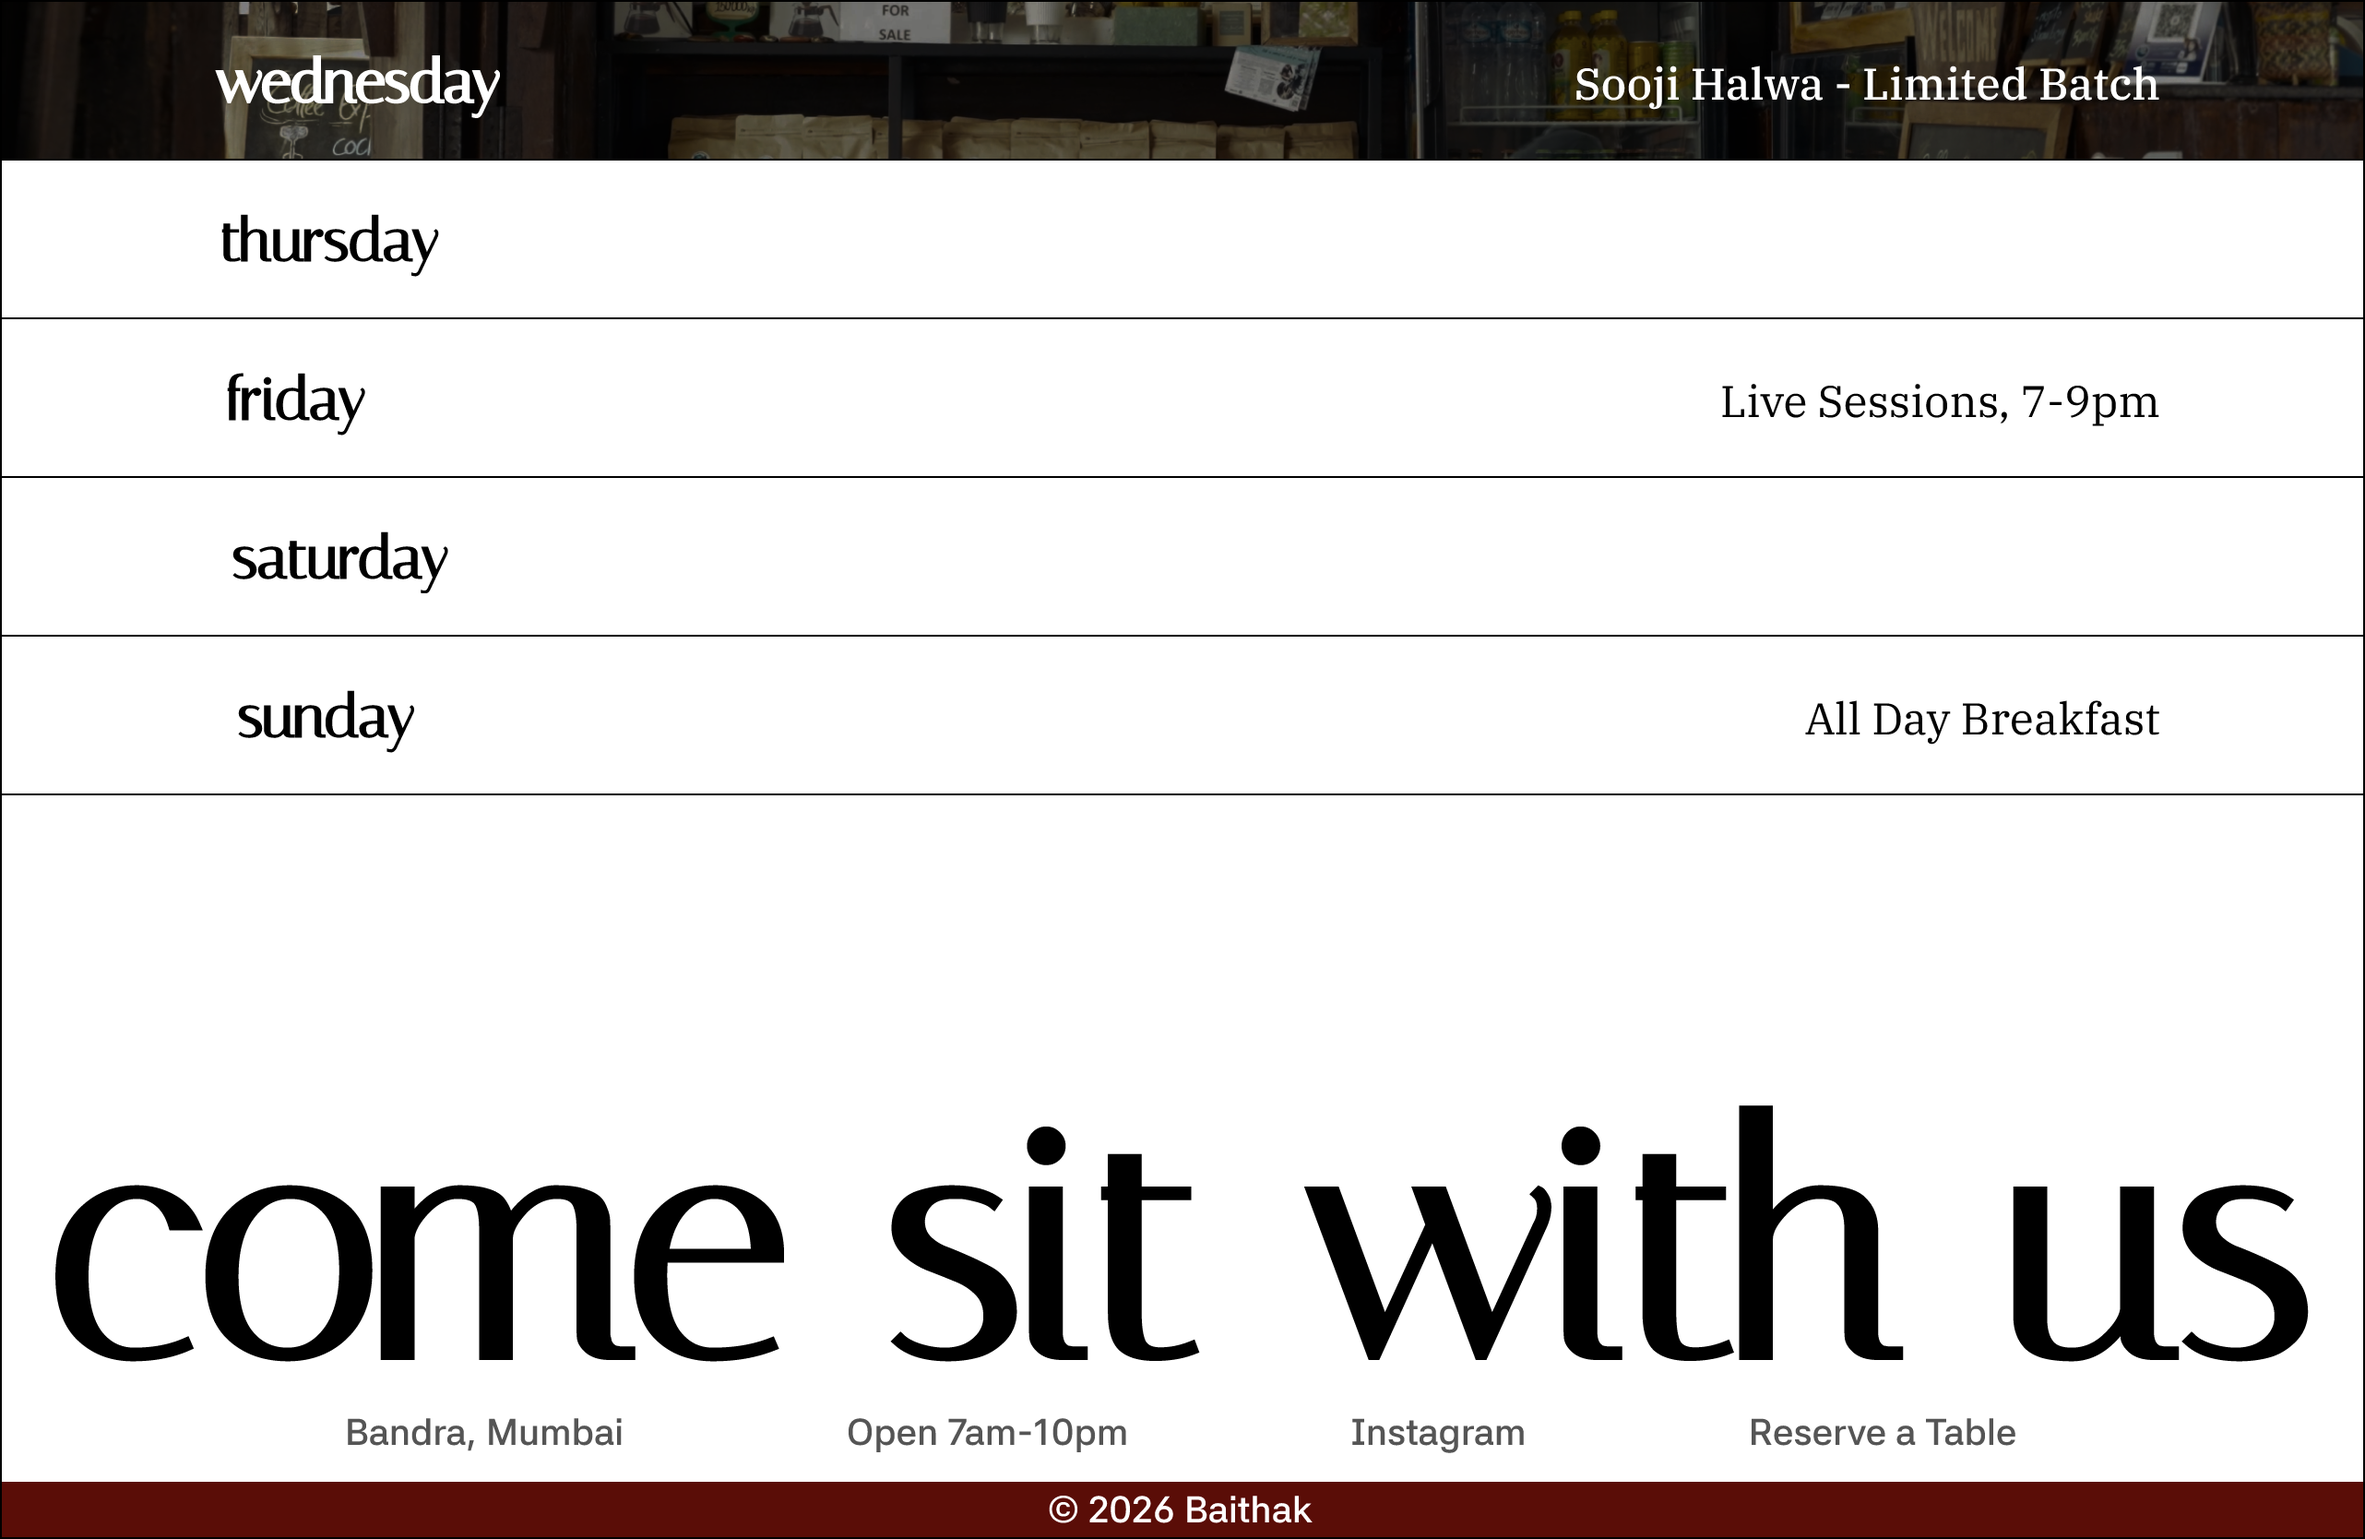
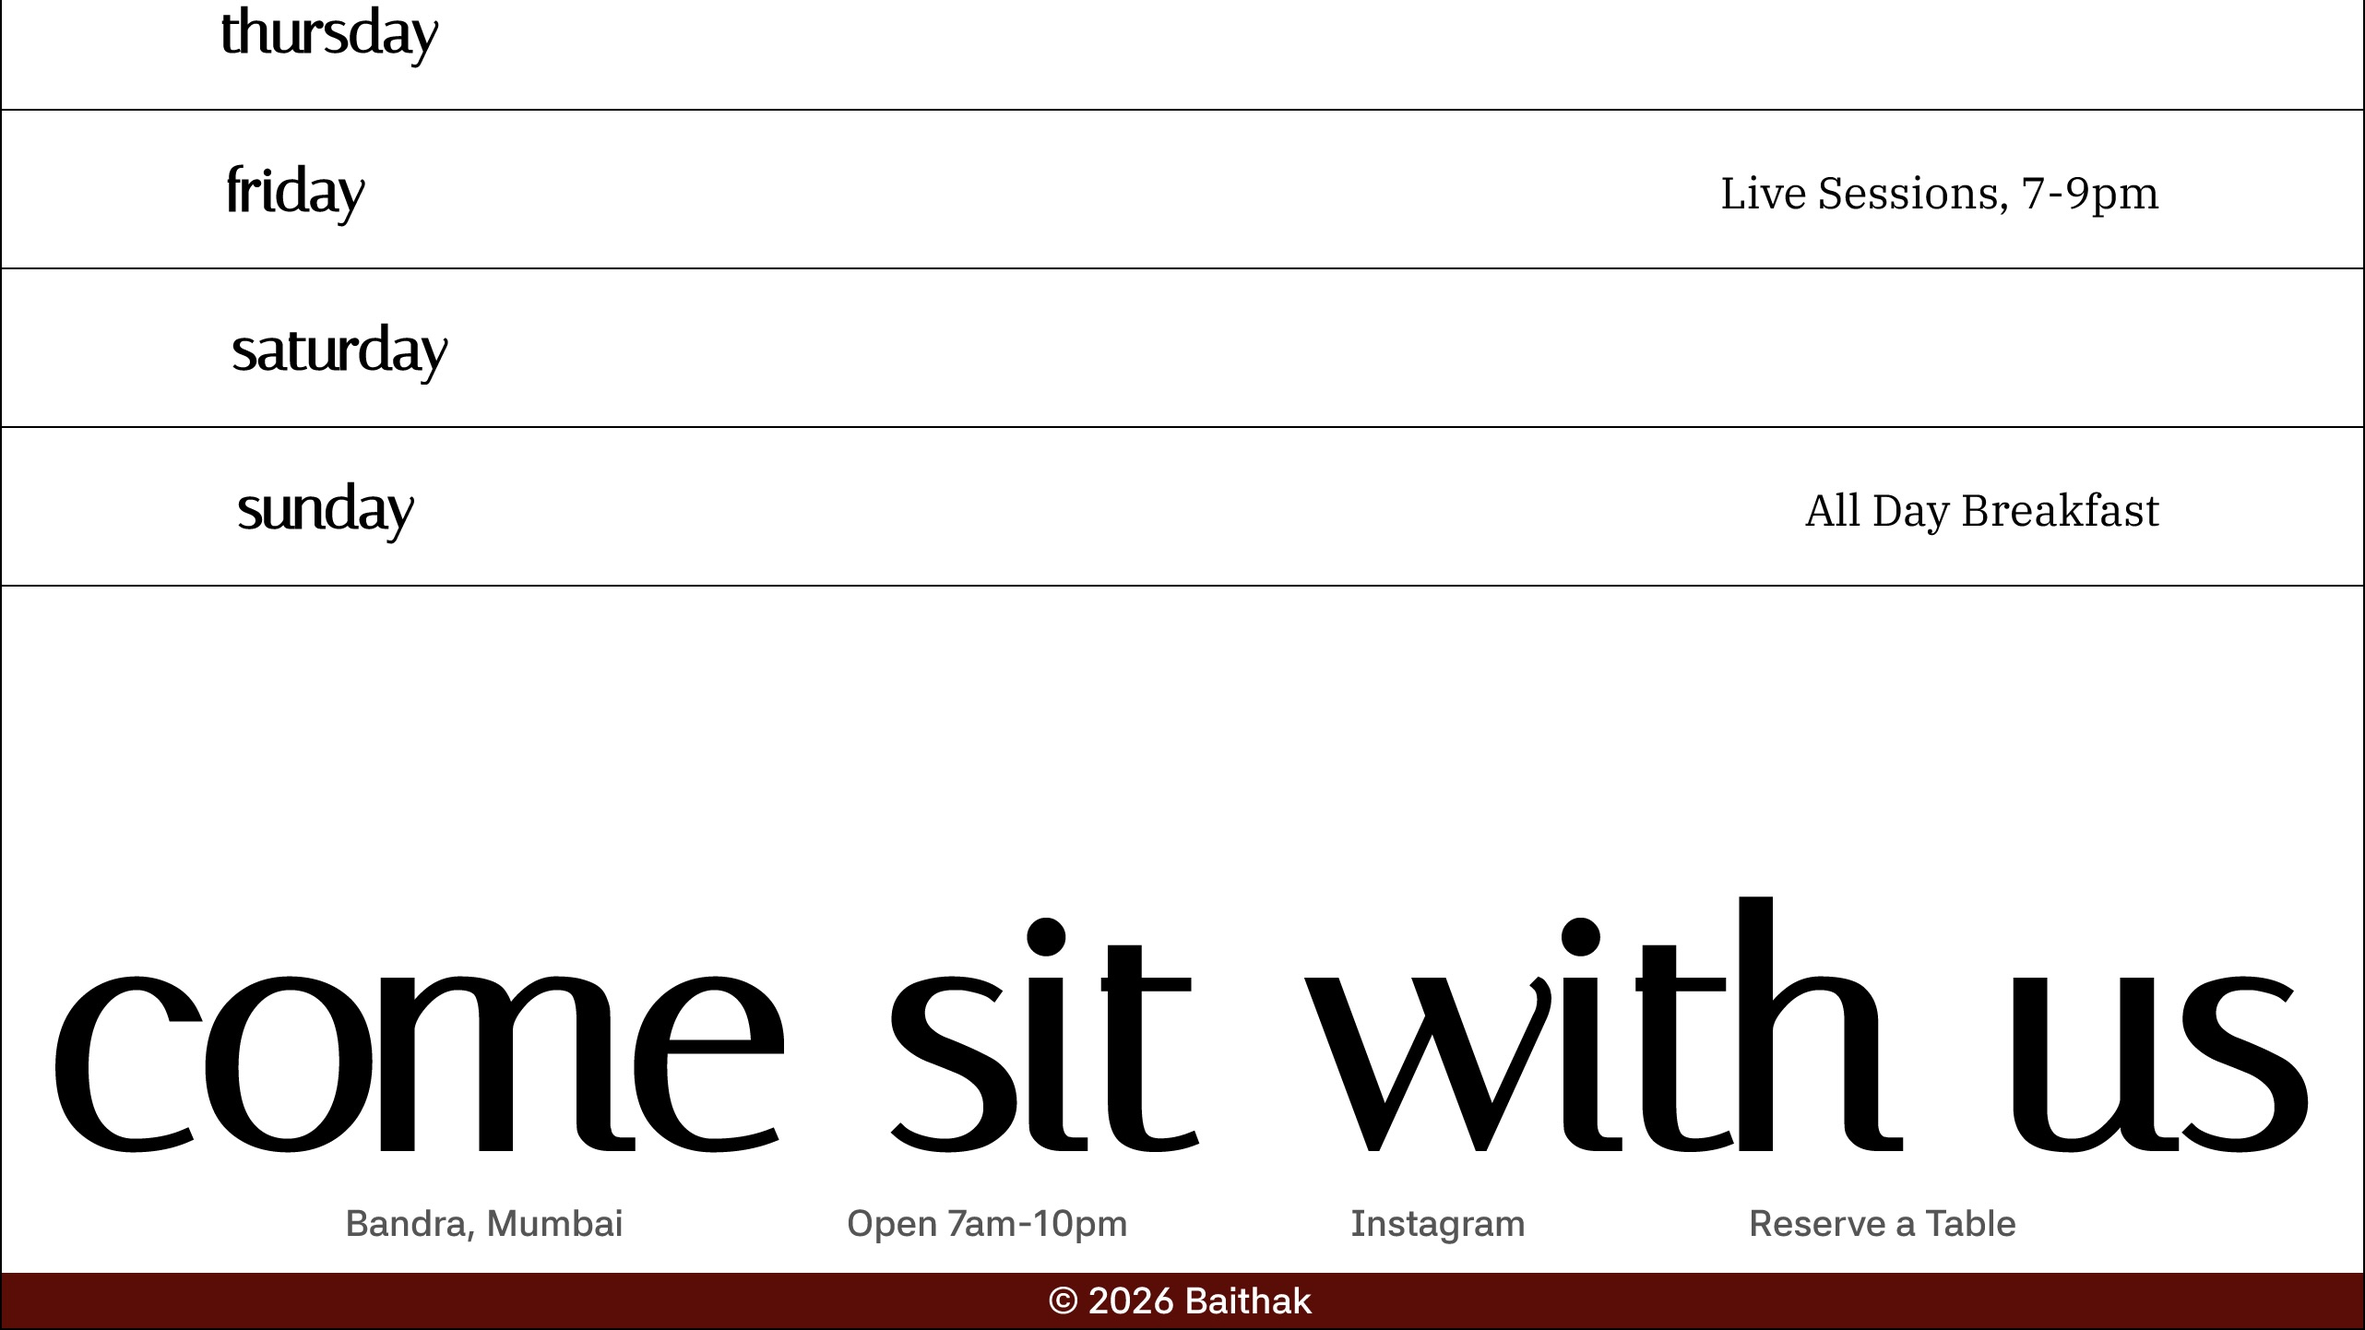
fixed media aspect ratio

diff --git a/src/sections/Footer.tsx b/src/sections/Footer.tsx
@@ -26,12 +26,16 @@ const Footer = () => {
     if (!section || !heading || !cta) return;
 
     const ctx = gsap.context(() => {
-      const buttons = cta.querySelectorAll<HTMLAnchorElement>("a");
+      const buttons =
+        cta.querySelectorAll<HTMLAnchorElement>("a");
 
       if (!buttons.length || !wordRefs.current.length) return;
 
-      const buttonTexts = Array.from(buttons).flatMap((button) =>
-        Array.from(button.querySelectorAll("span.relative")),
+      const buttonTexts = Array.from(buttons).flatMap(
+        (button) =>
+          Array.from(
+            button.querySelectorAll("span.relative"),
+          ),
       );
 
       /*
@@ -52,7 +56,6 @@ const Footer = () => {
 
       /*
        * HEADING ANIMATION
-       * Kept exactly the same.
        */
 
       const headingTl = gsap.timeline({
@@ -85,8 +88,7 @@ const Footer = () => {
       });
 
       /*
-       * CTA borders
-       * All reveal together.
+       * CTA BORDERS
        */
 
       ctaTl.to(buttons, {
@@ -96,8 +98,7 @@ const Footer = () => {
       });
 
       /*
-       * CTA text
-       * All reveal together.
+       * CTA TEXT
        */
 
       ctaTl.to(buttonTexts, {
@@ -133,6 +134,9 @@ const Footer = () => {
         className="
           mt-auto
           mb-auto
+          flex
+          flex-col
+          gap-12
           md:grid
           md:grid-cols-4
           md:gap-8
@@ -158,14 +162,14 @@ const Footer = () => {
         {/* MAIN CONTENT */}
 
         <div className="md:col-start-2 md:col-span-3">
-
           {/* HEADLINE */}
 
           <div
             ref={headingRef}
             className="
               font-hegarty
-              text-[clamp(48px,8vw,140px)]
+              text-[clamp(42px,11vw,72px)]
+              md:text-[clamp(48px,8vw,140px)]
               leading-[0.88]
               text-white
             "
@@ -212,7 +216,7 @@ const Footer = () => {
           <div
             ref={ctaRef}
             className="
-              mt-10
+              mt-12
               md:mt-12
               w-full
             "
